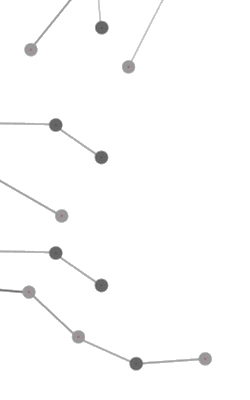
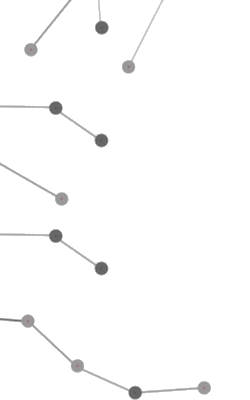
ajout bouton menu + debut btn loomio

diff --git a/ph/themes/ph-dori/assets/css/styles.css b/ph/themes/ph-dori/assets/css/styles.css
@@ -2937,8 +2937,8 @@ body.login {
   background-repeat: no-repeat;
 }*/
 .bgpixeltree{
-  background-image: url(../images/bg-pixel-left-min.png), url(../images/bg-pixel-right-min.png);
-  background-position: left top, right top;
+  background-image: url(../images/bg-pixel-left-min.png), url(../images/bg-pixel-right-min.png), url(../images/bg-pixel-right-bottom.png);
+  background-position: left top, right top, right bottom;
   background-repeat: no-repeat;
   /*background-attachment: fixed;*/
   margin-left: 0px !important;
